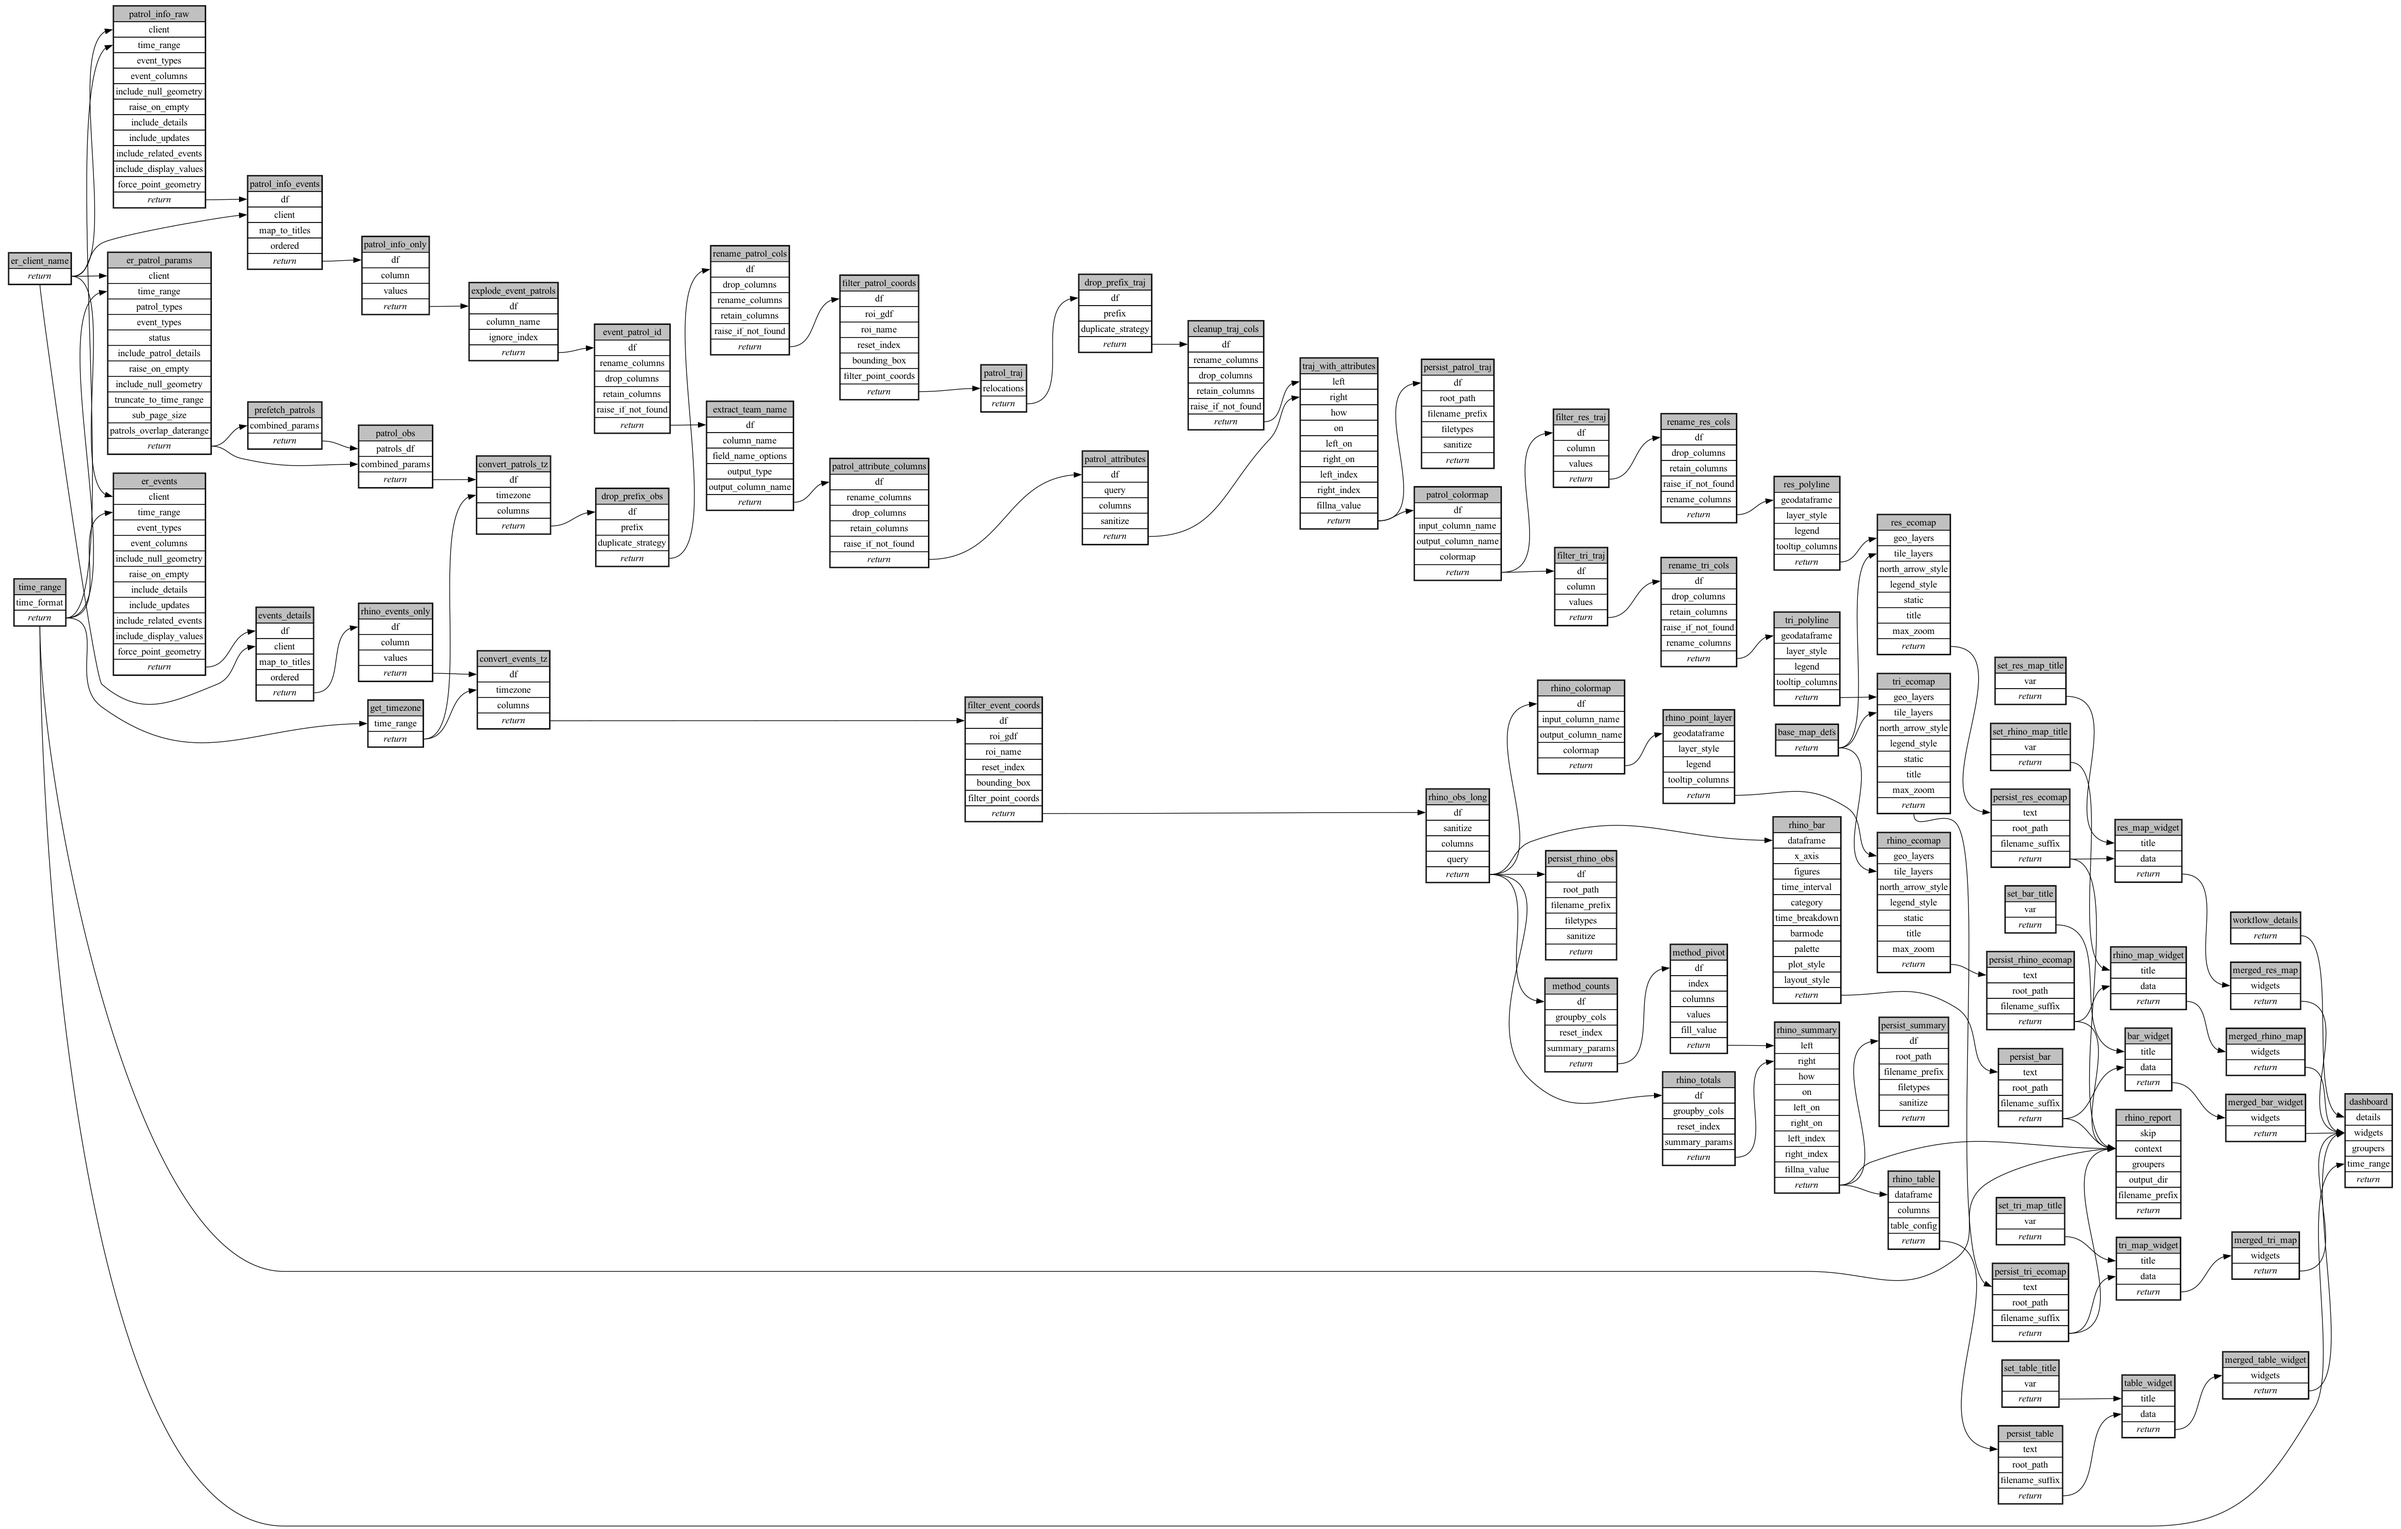
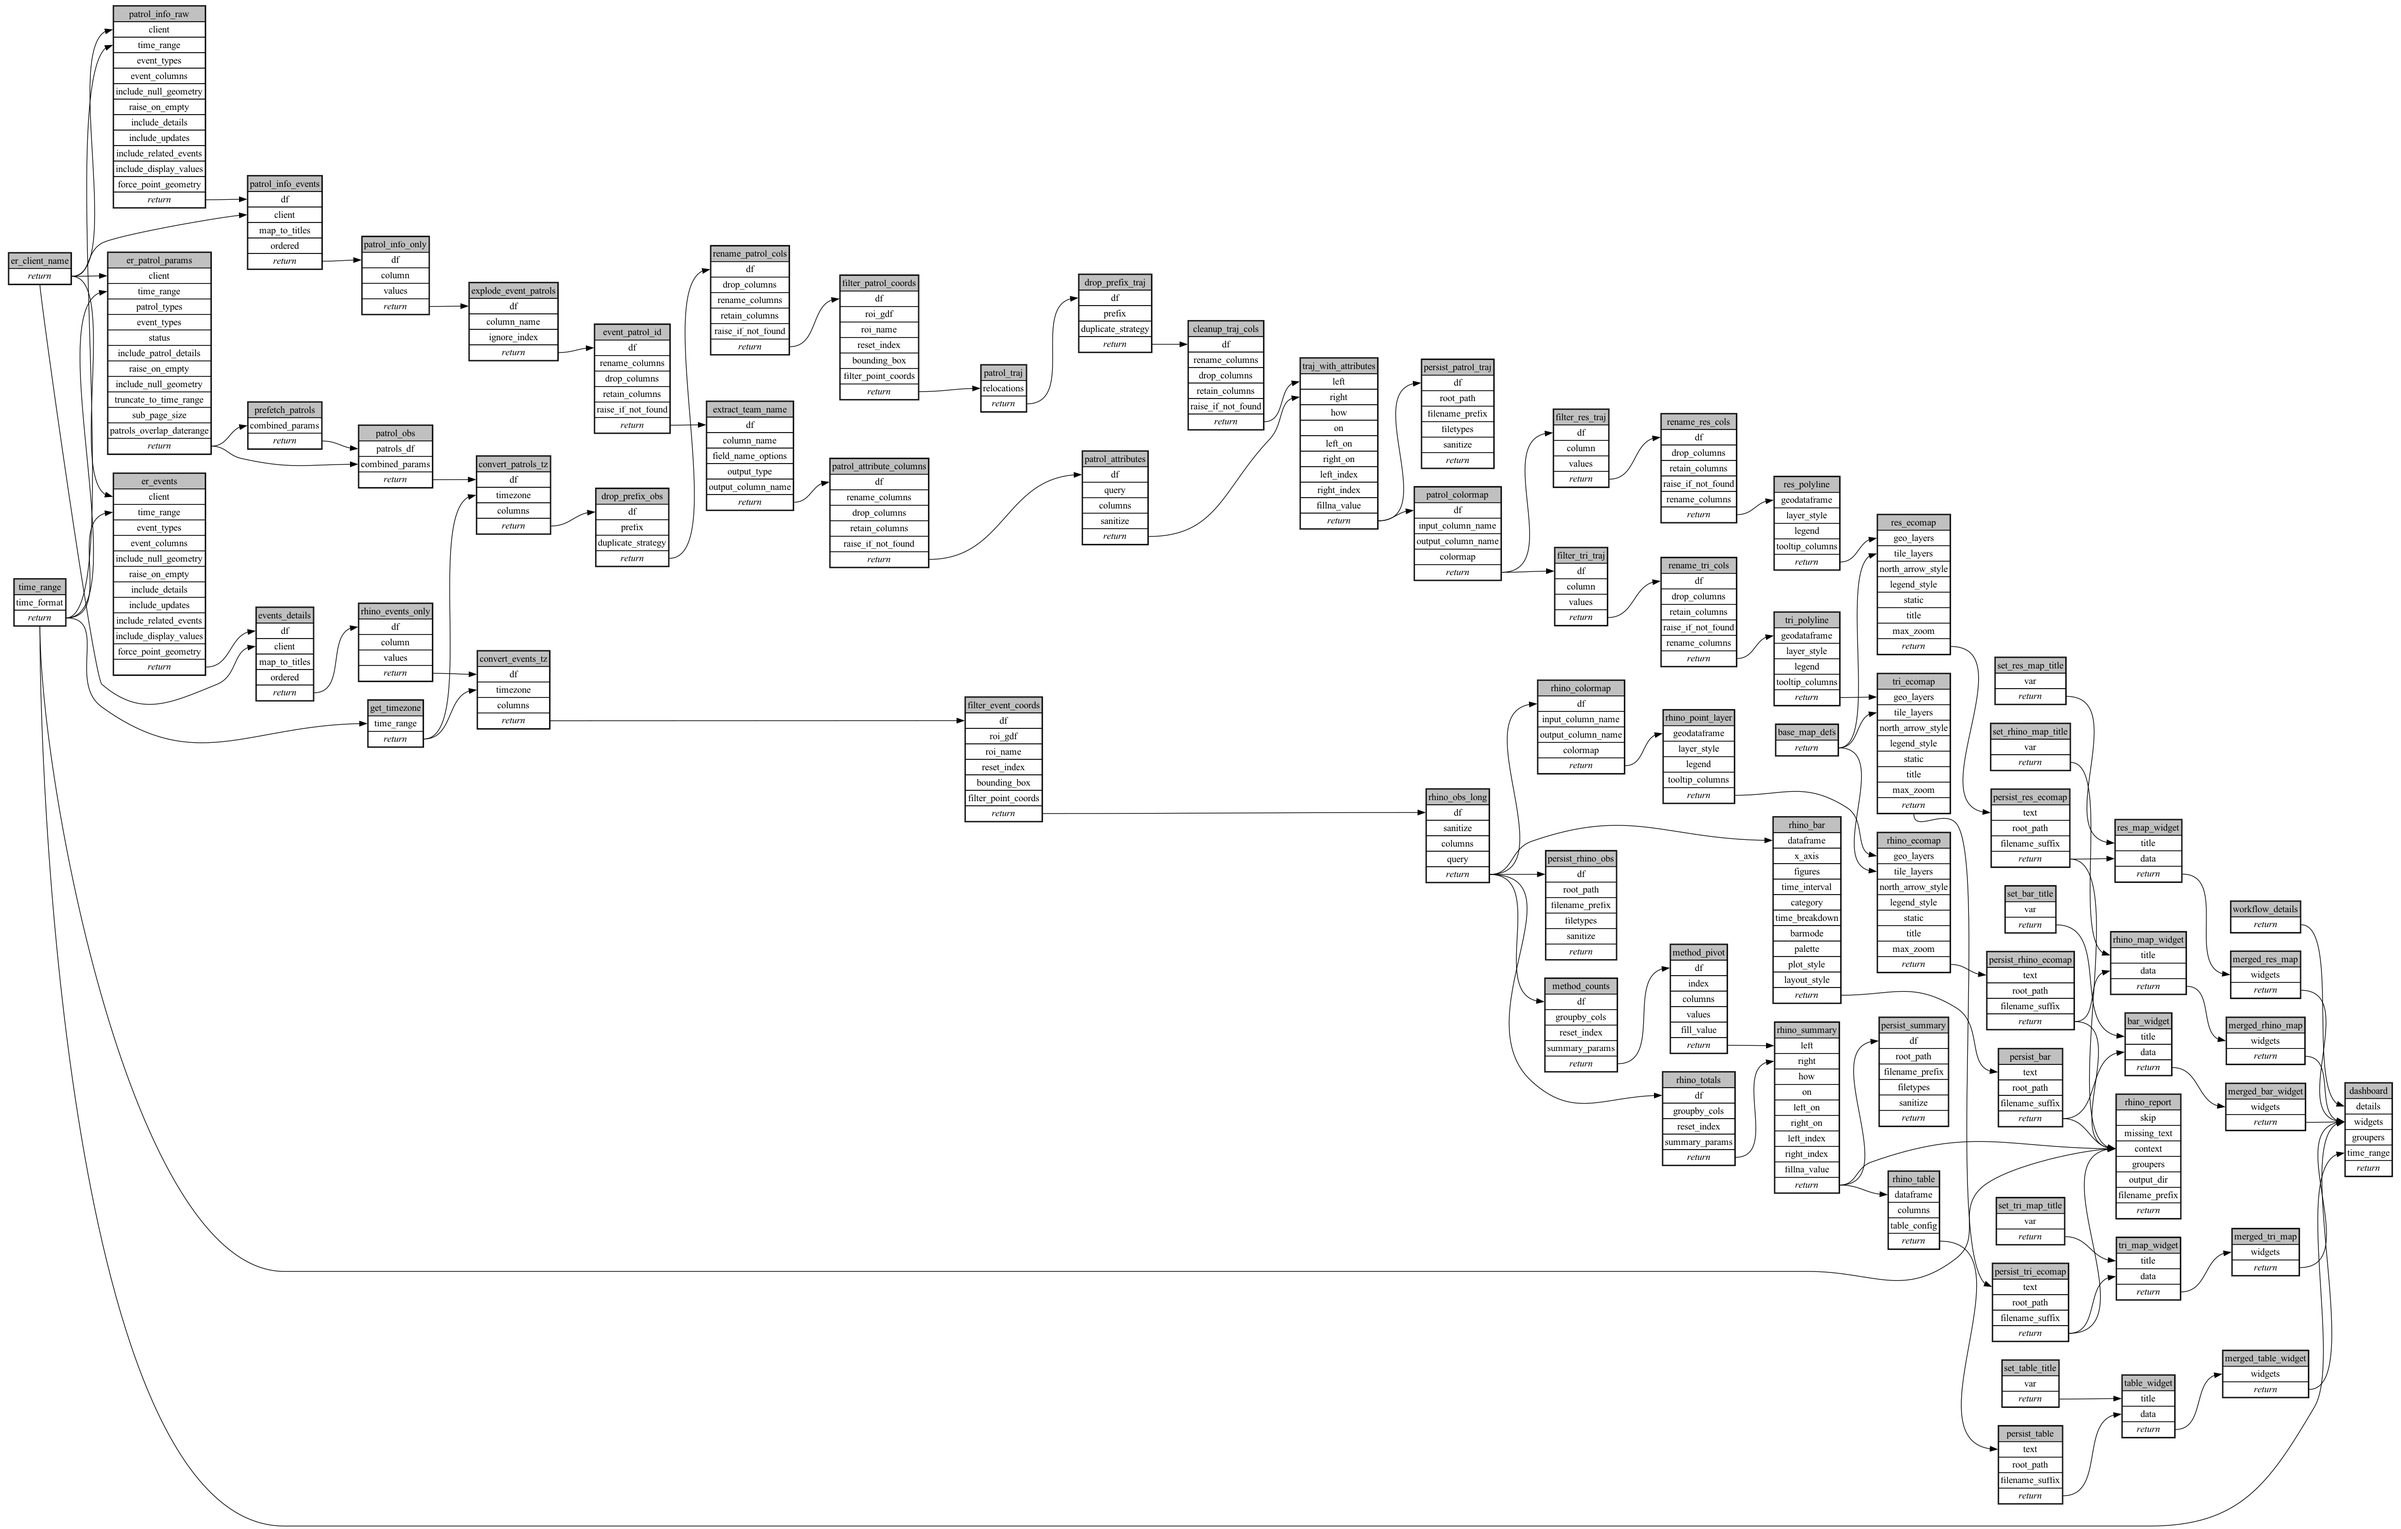
feat: '(No data)' marker for skipped report sections; sort rhino map legend alphabetically

Changed region(s): [[0.8729, 0.5901, 0.9976, 0.7765], [0.9353, 0.8697, 0.9665, 0.9318], [0.9353, 0.7765, 0.9665, 0.8386]]

diff --git a/ecoscope-workflows-mt-rhino-workflow/ecoscope_workflows_mt_rhino_workflow/dags/run_sequential.py b/ecoscope-workflows-mt-rhino-workflow/ecoscope_workflows_mt_rhino_workflow/dags/run_sequential.py
@@ -1299,7 +1299,11 @@ def main(params: dict[str, Any], validate_params_schema: bool = True):
         .partial(
             geodataframe=rhino_colormap,
             layer_style={"get_radius": 5.0, "fill_color_column": "rhino_colormap"},
-            legend={"label_column": "Rhino Name", "color_column": "rhino_colormap"},
+            legend={
+                "label_column": "Rhino Name",
+                "color_column": "rhino_colormap",
+                "sort": "ascending",
+            },
             tooltip_columns=["Rhino Name", "Sighting Method", "time"],
             **(params.get("rhino_point_layer") or {}),
         )
@@ -1750,6 +1754,7 @@ def main(params: dict[str, Any], validate_params_schema: bool = True):
         )
         .partial(
             skip=False,
+            missing_text="(No data)",
             context={
                 "items": [
                     {

diff --git a/ecoscope-workflows-mt-rhino-workflow/ecoscope_workflows_mt_rhino_workflow/dags/run_sequential_mock_io.py b/ecoscope-workflows-mt-rhino-workflow/ecoscope_workflows_mt_rhino_workflow/dags/run_sequential_mock_io.py
@@ -1335,7 +1335,11 @@ def main(params: dict[str, Any], validate_params_schema: bool = True):
         .partial(
             geodataframe=rhino_colormap,
             layer_style={"get_radius": 5.0, "fill_color_column": "rhino_colormap"},
-            legend={"label_column": "Rhino Name", "color_column": "rhino_colormap"},
+            legend={
+                "label_column": "Rhino Name",
+                "color_column": "rhino_colormap",
+                "sort": "ascending",
+            },
             tooltip_columns=["Rhino Name", "Sighting Method", "time"],
             **(params.get("rhino_point_layer") or {}),
         )
@@ -1786,6 +1790,7 @@ def main(params: dict[str, Any], validate_params_schema: bool = True):
         )
         .partial(
             skip=False,
+            missing_text="(No data)",
             context={
                 "items": [
                     {

diff --git a/ecoscope-workflows-mt-rhino-workflow/README.md b/ecoscope-workflows-mt-rhino-workflow/README.md
@@ -5,8 +5,8 @@
 
 ```yaml
 # fingerprint:
-artifacts_sha256_basic: 47d6ed89b3805d461c6f9f6144794c382edfff2e8a8318118a9ba7d731e3e74d
-artifacts_sha256_strict: 14963065bb947f7d0a03c25a79c8e37c36ba781f1777ca7dcb5a4fb1548544f7
+artifacts_sha256_basic: bb208d720310067bf1b18ee339be46b1bda6e0ad9a0346a1f0ea393b25593716
+artifacts_sha256_strict: 39a98cdf9797ed81d74b830f213e5e0fa0ad6bdf59c815a04420c3ec399b05cf
 installed_requirements:
 - channel: conda-forge
   name: setuptools
@@ -30,7 +30,7 @@ installed_requirements:
   name: pydantic
   version: {version: ==2.8.2}
 params_sha256: 1a0f38dbd6bfc7d19fc5cdf77cfc081ef4f9260038f0f2dd625de125eb03f350
-spec_sha256: d129316c66b038225bb22d100a828a45a0f5ef89f3d3ab05c3b9a68415b7211b
+spec_sha256: 98575353709969c65b0da491bb70373ffad757624af1adf4289e91867e26ae73
 
 ```
 
